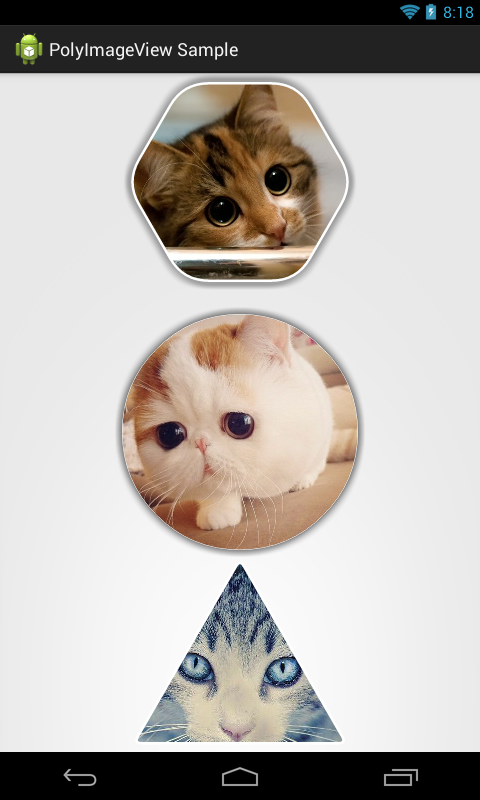
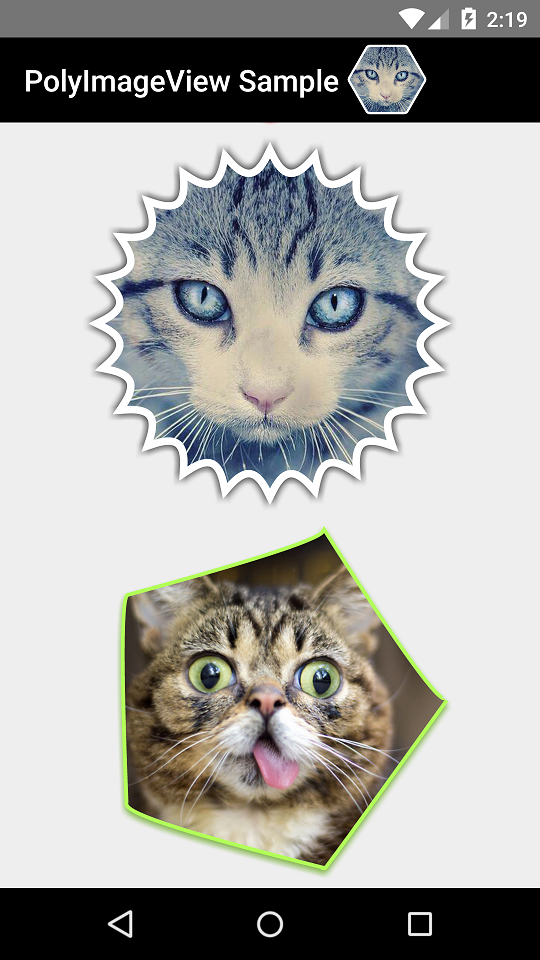
Improves examples screenshots

diff --git a/polygonimageview/src/main/java/net/grobas/shapes/BasePolygonShape.java b/polygonimageview/src/main/java/net/grobas/shapes/BasePolygonShape.java
@@ -5,7 +5,7 @@ import android.graphics.Path;
 /**
  * Base abstract class for implementation shape interface
  */
-abstract public class BasePolygonShape implements PolygonShape {
+public abstract class BasePolygonShape implements PolygonShape {
 
     private Path mPath;
     private PolygonShapeSpec polygonShapeSpec;
@@ -72,6 +72,6 @@ abstract public class BasePolygonShape implements PolygonShape {
      * @param nextX next point x
      * @param nextY next point y
      */
-    protected abstract void addEffect(float currentX, float currentY, float nextX, float nextY);
+    abstract protected void addEffect(float currentX, float currentY, float nextX, float nextY);
 
 }

diff --git a/README.md b/README.md
@@ -3,9 +3,11 @@ PolygonImageView
 
 Create a custom ImageView with polygonal forms.
 
+[![Android Arsenal](https://img.shields.io/badge/Android%20Arsenal-PolygonImageView-brightgreen.svg?style=flat)](http://android-arsenal.com/details/1/1851)
 
-![Demo Screenshot 1][1] ![Demo Screenshot 2][2]
-![Demo Screenshot 3][3] ![Demo Screenshot 4][4]
+![Demo Screenshot 1][1]
+![Demo Screenshot 2][2]
+![Demo Screenshot 3][3]
 
 Usage
 -----
@@ -60,7 +62,7 @@ To use PolygonImageView, add the module into your project and start to build xml
     layout.addView(view);
 ```
 
-###EFFECTS
+###Effects
 
 There are 3 basic effects:
 
@@ -92,4 +94,3 @@ License
 [1]: ./art/screen01.png
 [2]: ./art/screen02.png
 [3]: ./art/screen03.png
-[4]: ./art/screen04.png
